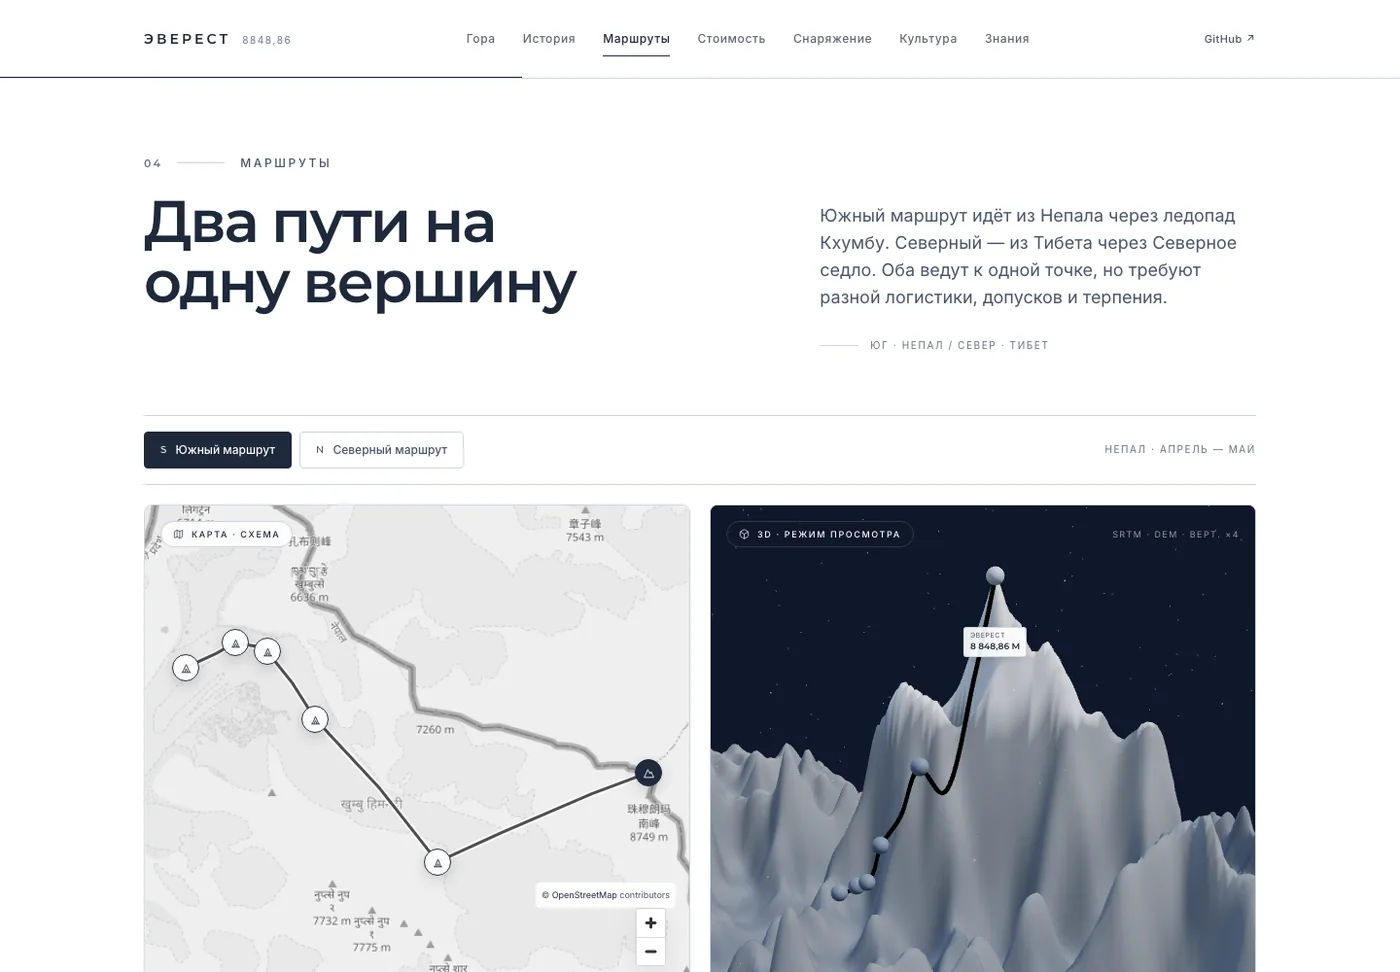
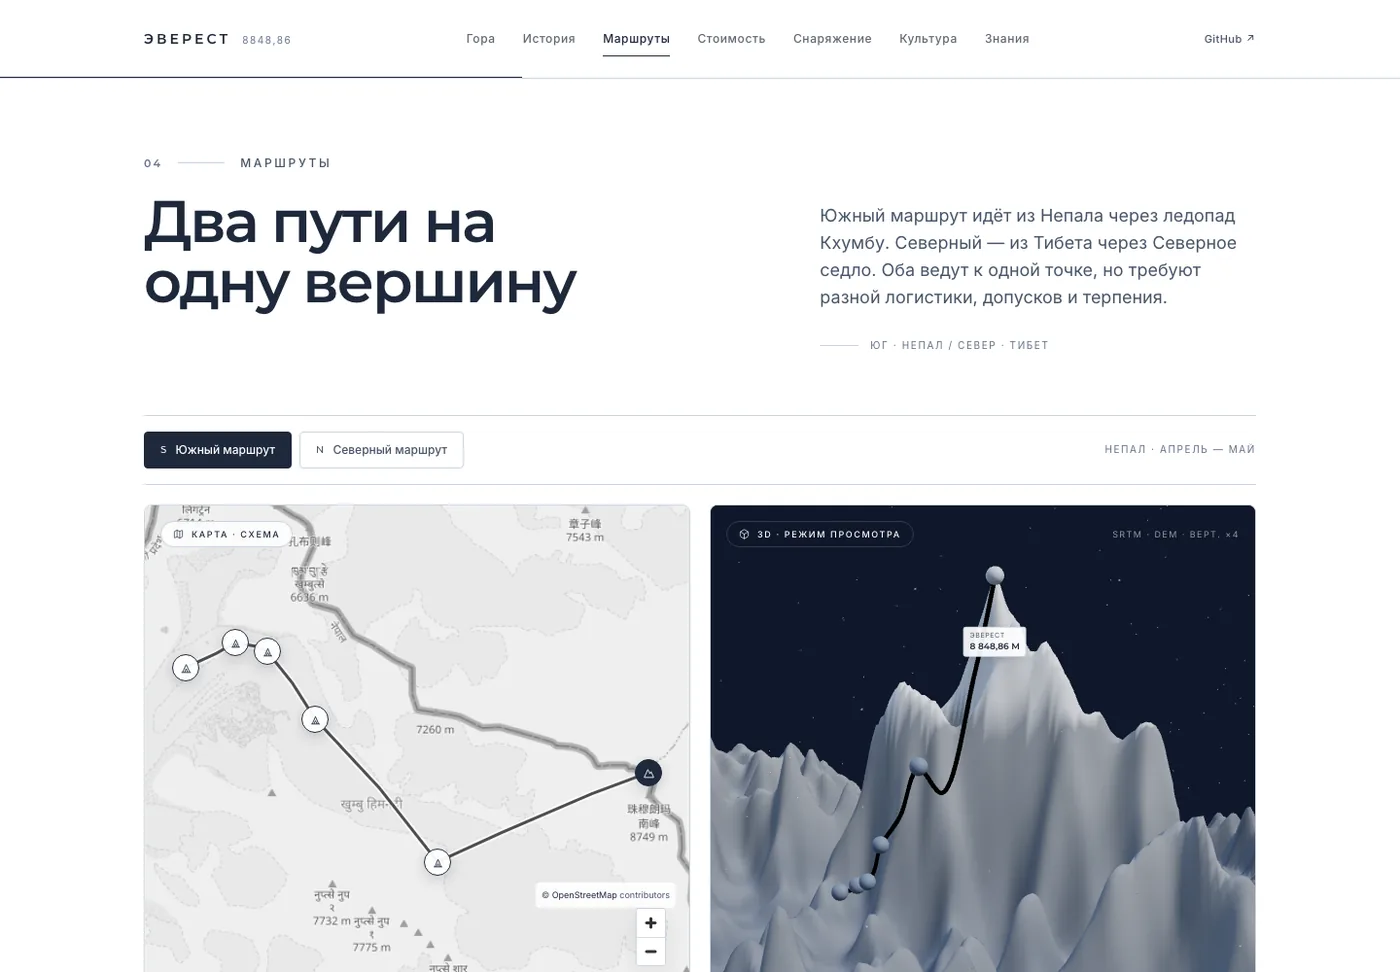
docs: update previews and audit range

diff --git a/README.md b/README.md
@@ -217,11 +217,11 @@ python3 scripts/generate_model.py /path/N27E086.hgt /path/N28E086.hgt
 
 ## Аудит
 
-Lighthouse на **живом GitHub Pages**:
+Lighthouse на **живом GitHub Pages** (мобильный Performance зависит от симуляции сети):
 
 | Режим | Performance | Accessibility | Best Practices | SEO |
 | --- | ---: | ---: | ---: | ---: |
-| Mobile | **93** | **100** | 96 | **100** |
+| Mobile | **87–93** | **100** | 96 | **100** |
 | Desktop | **99** | **100** | **100** | **100** |
 
 - axe-core (WCAG 2.1 AA): **0** нарушений на 1440 и 360 px.
